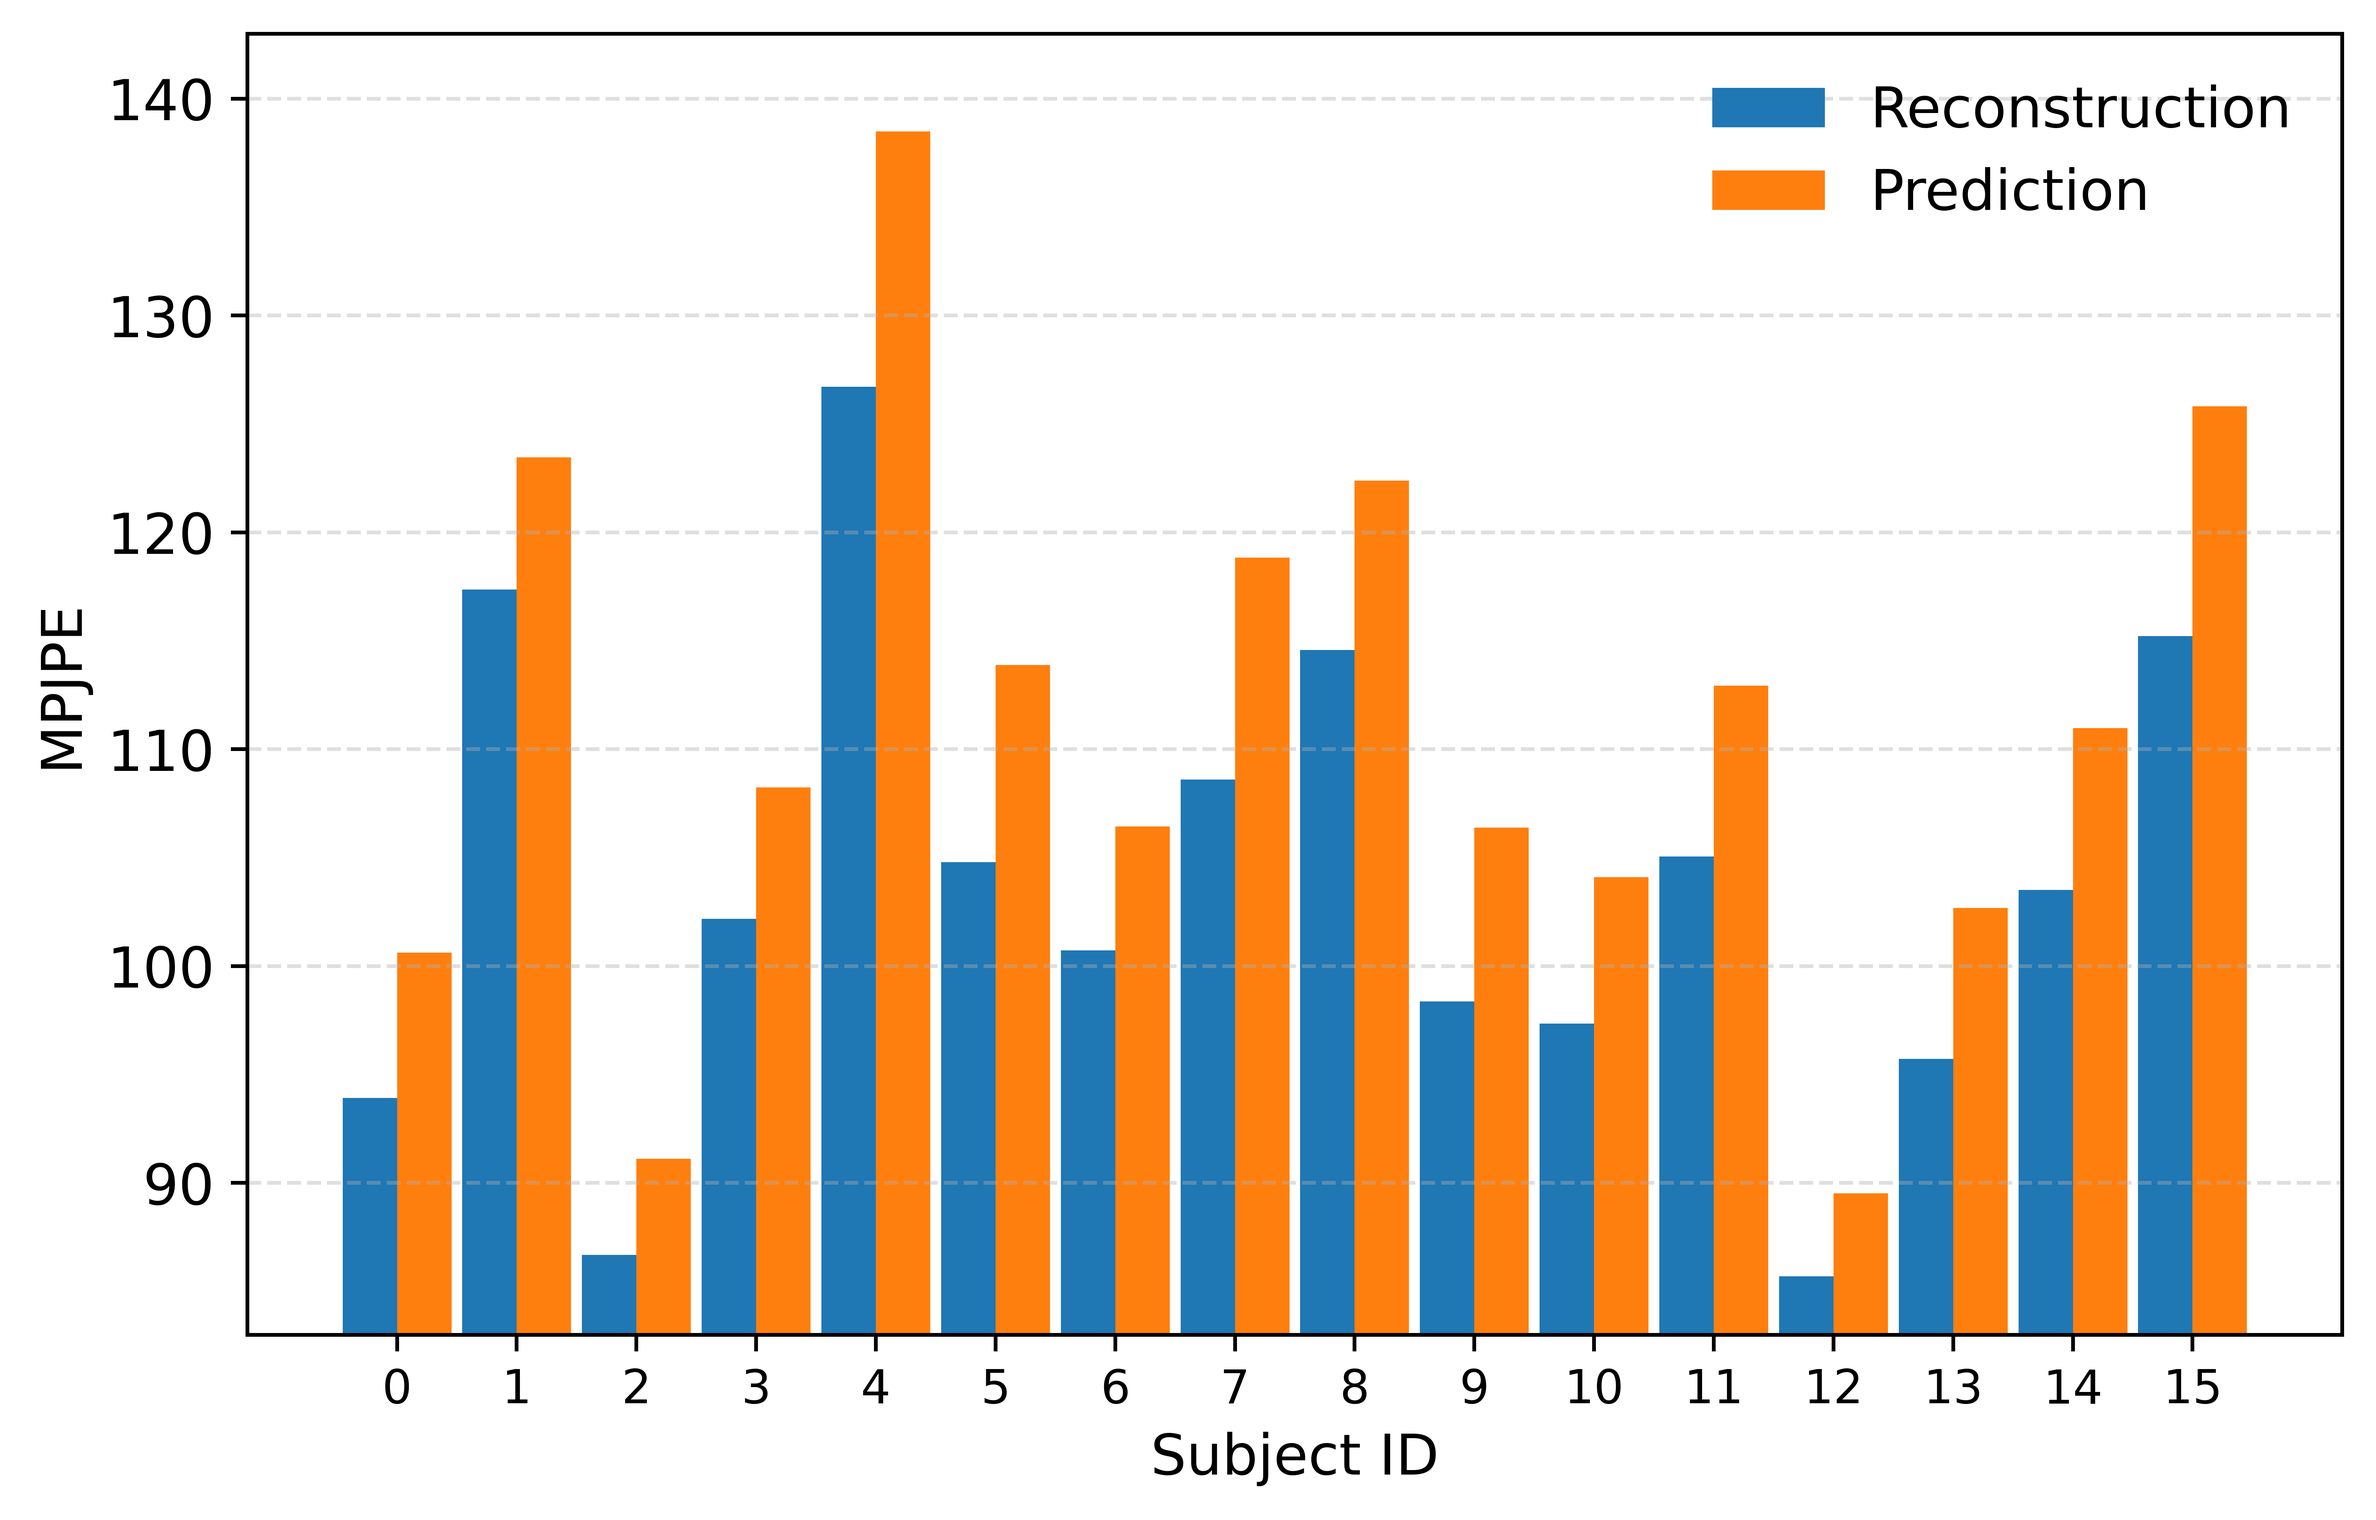
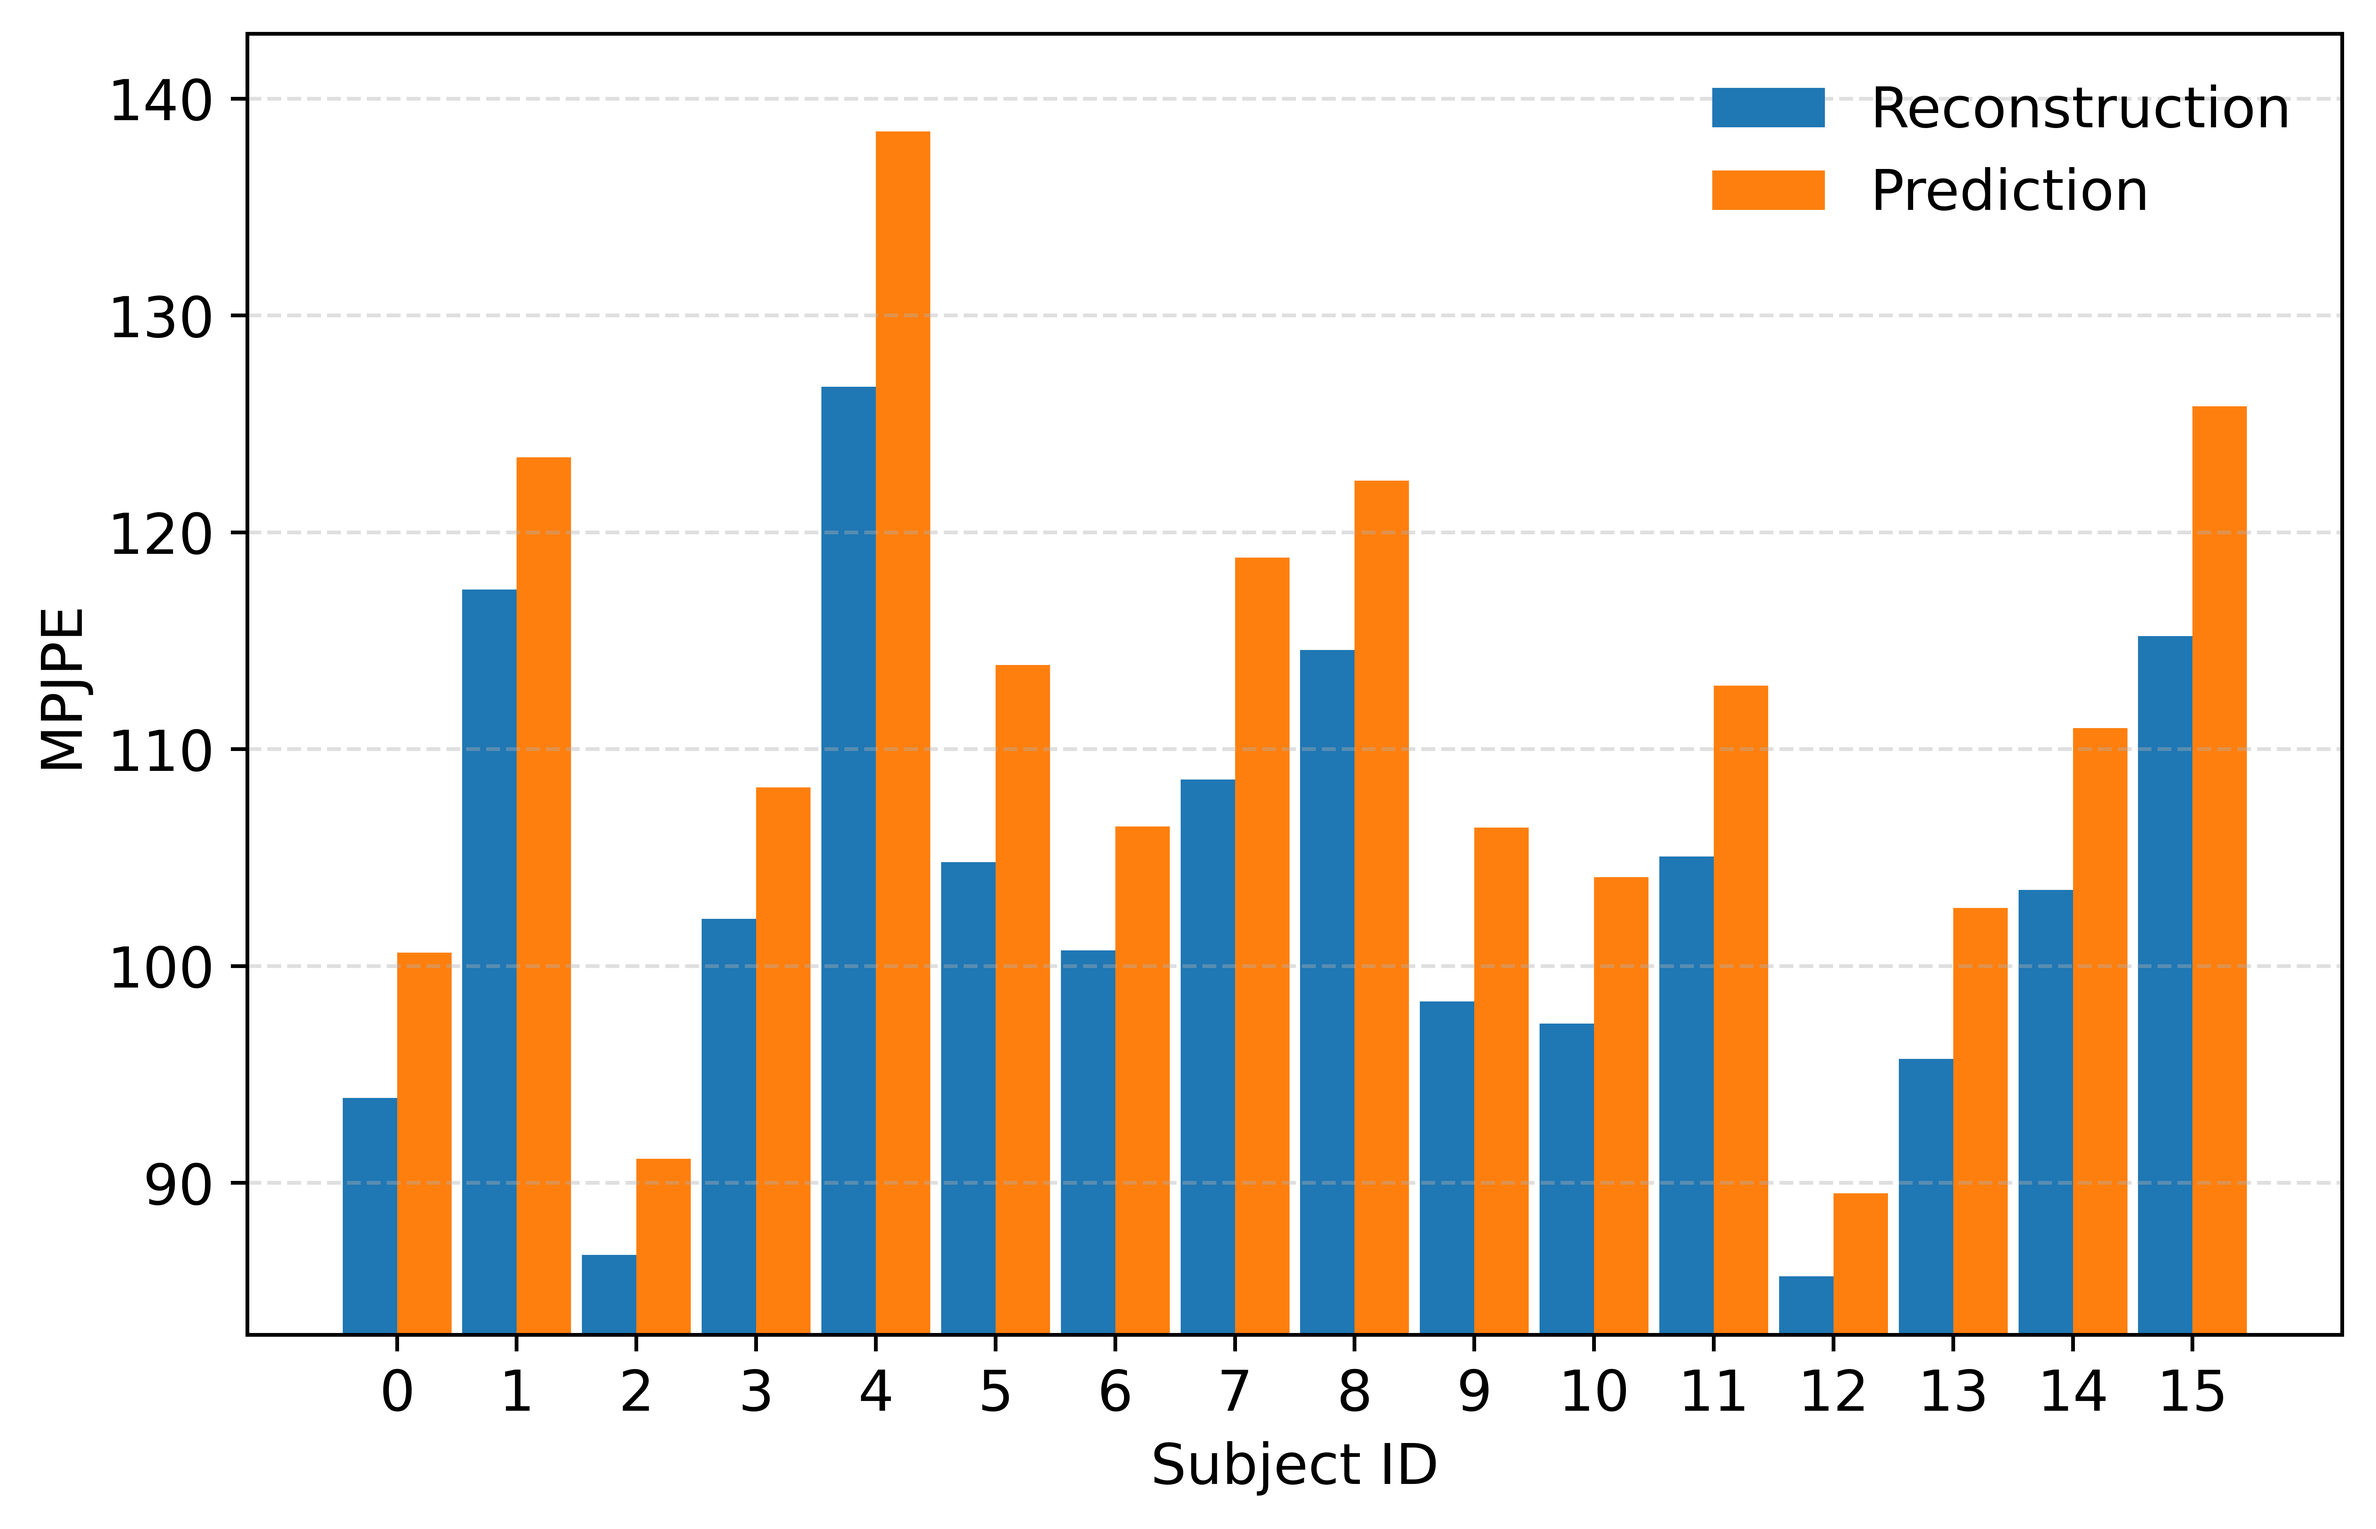
跨域实验结果图

diff --git a/draw/draw_cross_env.py b/draw/draw_cross_env.py
@@ -1,0 +1,48 @@
+import matplotlib.pyplot as plt
+import numpy as np
+
+
+def plot_cross_scene(save_path):
+    plt.rcParams.update({
+        "font.size": 12,
+        "axes.labelsize": 12,
+        "xtick.labelsize": 12,
+        "ytick.labelsize": 12,
+        "legend.fontsize": 12
+    })
+
+    scenes = ["Bedroom", "Study", "Dining Room"]
+    recon = [204.4093, 147.1609, 138.3596]
+    pred  = [226.1702, 155.1837, 143.9825]
+
+    group_gap = 1.3
+    bar_width = 0.5
+    x = np.arange(len(scenes)) * group_gap
+    x_recon = x - bar_width / 2
+    x_pred  = x + bar_width / 2
+    plt.figure(figsize=(8, 5))
+    plt.bar(
+        x_recon,
+        recon,
+        width=bar_width,
+        label="Reconstruction"
+    )
+    plt.bar(
+        x_pred,
+        pred,
+        width=bar_width,
+        label="Prediction"
+    )
+    plt.xticks(x, scenes)
+    plt.xlabel("Scene")
+    plt.ylabel("MPJPE (mm)")
+    plt.ylim(103, 233)
+    plt.grid(True, axis='y', linestyle="--", alpha=0.4)
+    plt.legend(frameon=False)
+    plt.savefig(save_path, dpi=900, bbox_inches='tight')
+    plt.close()
+    print(f"已保存到: {save_path}")
+
+
+if __name__ == "__main__":
+    plot_cross_scene("/mnt/mydata/yh/liming/workspace/future/draw/cross_env.png")

diff --git a/draw/draw_cross_subject.py b/draw/draw_cross_subject.py
@@ -6,7 +6,7 @@ def plot_cross_subject(save_path):
     plt.rcParams.update({
         "font.size": 12,
         "axes.labelsize": 12,
-        "xtick.labelsize": 10,
+        "xtick.labelsize": 12,
         "ytick.labelsize": 12,
         "legend.fontsize": 12
     })
